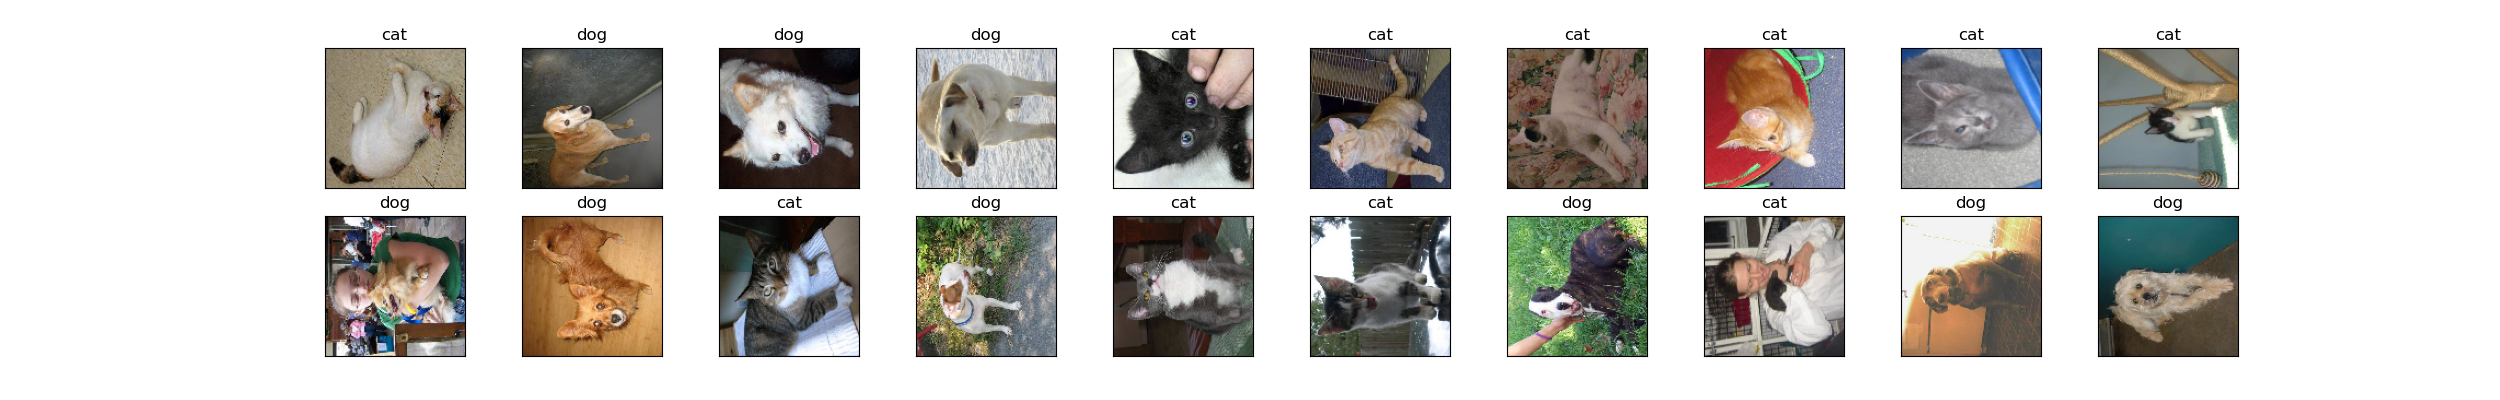
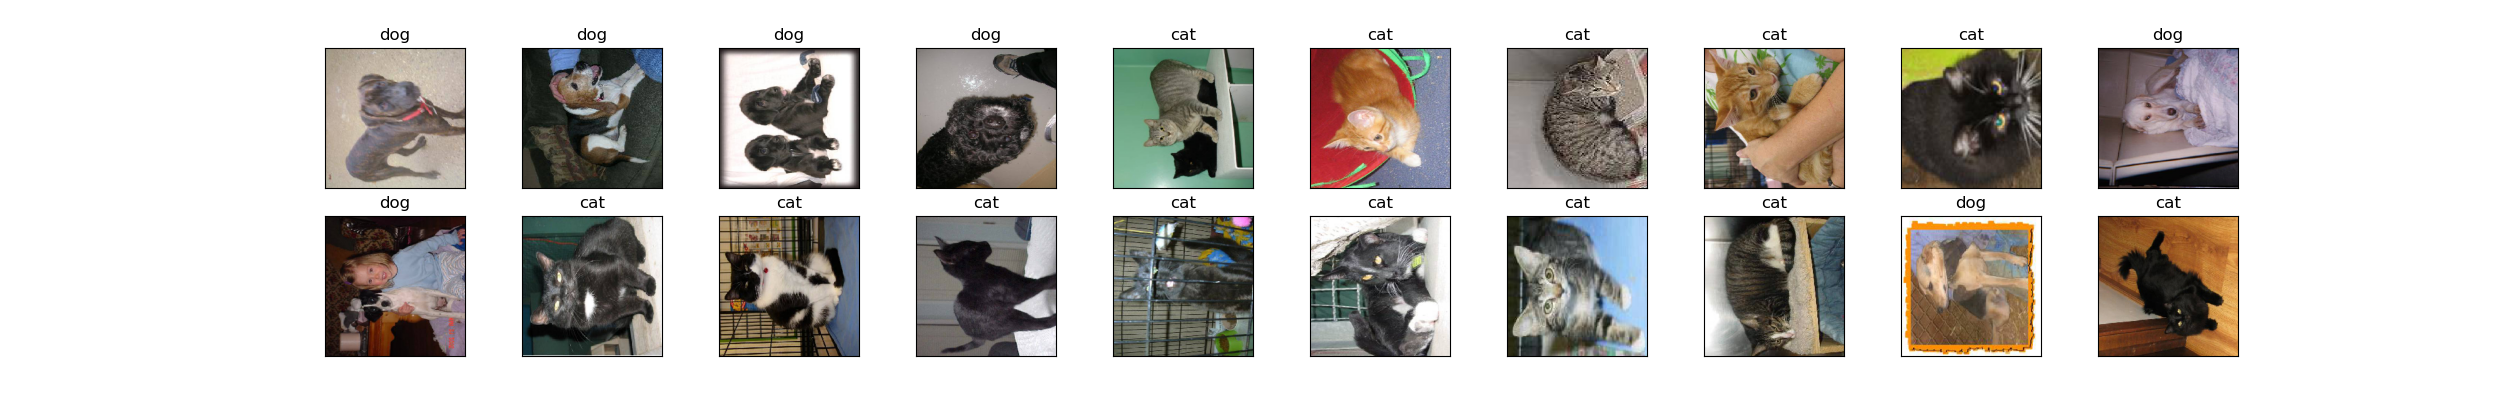
define and fit model (overfitting)

diff --git a/cats_dogs.py b/cats_dogs.py
@@ -1,9 +1,13 @@
 import tensorflow as tf
 from tensorflow.keras.preprocessing import image
+from tensorflow.keras import layers
 import os
 import matplotlib.pyplot as plt
 import numpy as np
 import logging
+
+# reduce tf logging
+os.environ["TF_CPP_MIN_LOG_LEVEL"] = "2"
 
 logger = tf.get_logger()
 logger.setLevel(logging.ERROR)
@@ -45,7 +49,7 @@ print("Total training images:", total_train)
 print("Total validation images:", total_val)
 
 #%%
-BATCH_SIZE = 100
+BATCH_SIZE = 64
 IMG_SHAPE = 128
 
 # %%
@@ -66,12 +70,72 @@ val_data_gen = img_gen.flow_from_directory(
     class_mode="binary",
 )
 # %%
-classes = ['cat', 'dog']
+classes = ["cat", "dog"]
 sample_imgs, labels = next(train_data_gen)
 fig = plt.figure(figsize=(25, 4))
 for idx in np.arange(20):
-    ax = fig.add_subplot(2,20/2, idx+1, xticks=[], yticks=[])
-    plt.imshow(np.transpose(sample_imgs[idx], (1,0,2)))
+    ax = fig.add_subplot(2, 20 / 2, idx + 1, xticks=[], yticks=[])
+    plt.imshow(np.transpose(sample_imgs[idx], (1, 0, 2)))
     ax.set_title(classes[int(labels[idx])])
-    plt.savefig('cats_dogs.png')
+    plt.savefig("cats_dogs.png")
 #%%
+# model definition
+model = tf.keras.models.Sequential(
+    [
+        layers.Conv2D(32, 3, activation="relu", input_shape=(224, 224, 3)),
+        layers.MaxPool2D(2, 2),
+        layers.Conv2D(64, 3, activation="relu"),
+        layers.MaxPool2D(2, 2),
+        layers.Conv2D(128, 3, activation="relu"),
+        layers.MaxPool2D(2, 2),
+        layers.Flatten(),
+        layers.Dense(512, activation="relu"),
+        layers.Dense(2),
+    ]
+)
+
+#%%
+# model compile
+model.compile(
+    optimizer=tf.optimizers.Adam(),
+    loss=tf.keras.losses.SparseCategoricalCrossentropy(from_logits=True),
+    metrics=["accuracy"],
+)
+#%%
+# train model
+EPOCHS = 10
+# Fits the model on data yielded batch-by-batch by a Python generator.
+# DEPRECATED: `Model.fit` now supports generators, so there is no longer
+# any need to use fit_generator
+history = model.fit(
+    train_data_gen,
+    steps_per_epoch=int(np.ceil(total_train / float(BATCH_SIZE))),
+    epochs=EPOCHS,
+    validation_data=val_data_gen,
+    validation_steps=int(np.ceil(total_val / float(BATCH_SIZE))),
+)
+
+# %%
+# visualize results of the training
+acc = history.history['accuracy']
+val_acc = history.history['val_accuracy']
+
+loss = history.history['loss']
+val_loss = history.history['val_loss']
+
+epochs_range = range(EPOCHS)
+
+plt.figure(figsize=(8, 8))
+plt.subplot(1, 2, 1)
+plt.plot(epochs_range, acc, label='Training Accuracy')
+plt.plot(epochs_range, val_acc, label='Validation Accuracy')
+plt.legend(loc='lower right')
+plt.title('Training and Validation Accuracy')
+
+plt.subplot(1, 2, 2)
+plt.plot(epochs_range, loss, label='Training Loss')
+plt.plot(epochs_range, val_loss, label='Validation Loss')
+plt.legend(loc='upper right')
+plt.title('Training and Validation Loss')
+plt.savefig('foo.png')
+plt.show()
